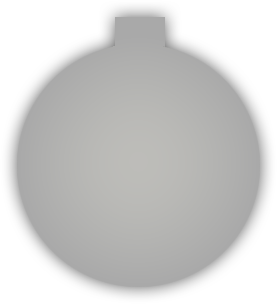
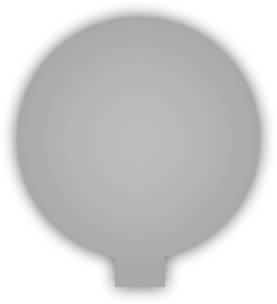
GameScreen доработан.

diff --git a/core/src/com/interdev/dstrike/screens/game/GameScreen.java b/core/src/com/interdev/dstrike/screens/game/GameScreen.java
@@ -34,42 +34,46 @@ public class GameScreen implements Screen, GestureDetector.GestureListener {
     private Image personalFieldBg;
 
     private Stage mainStage;
-
+    private Base myBase, enemyBase;
 
     @Override
     public void show() {
         Gdx.input.setInputProcessor(new GestureDetector(this));
         initTextures();
-
         multipleVirtualViewportBuilder = new MultipleVirtualViewportBuilder(640, 1136, 720, 1280);
         virtualViewport = multipleVirtualViewportBuilder.getVirtualViewport(Gdx.graphics.getWidth(), Gdx.graphics.getHeight());
         camera = new OrthographicCameraWithVirtualViewport(virtualViewport);
         virutalWidth = (int) virtualViewport.getVirtualWidth();
         virutalHeight = (int) virtualViewport.getVirtualHeight();
-
         totalFieldWidth = battlefieldBgTexture.getWidth();
         totalFieldHeight = battlefieldBgTexture.getHeight() + personalFieldBgTexture.getWidth();
-
-        zoom = (float)totalFieldWidth / virutalWidth;
+        zoom = (float) totalFieldWidth / virutalWidth;
 
         Log.info("virutalWidth " + virutalWidth + "  virutalHeight " + virutalHeight);
         Log.info("totalFieldWidth " + totalFieldWidth + "  totalFieldHeight " + totalFieldHeight);
-
         camera.position.set(totalFieldWidth / 2, totalFieldHeight / 2, 10f);
         camera.update(true);
-
-
-        personalFieldBg = new Image(personalFieldBgTexture);
-        personalFieldBg.setPosition(0, 0);
-        battlefieldBg = new Image(battlefieldBgTexture);
-        battlefieldBg.setPosition(personalFieldBg.getX() + 0, personalFieldBg.getY() + personalFieldBg.getHeight());
-
 
         mainStage = new Stage();
         mainStage.getViewport().setCamera(camera);
 
+
+        personalFieldBg = new Image(personalFieldBgTexture);
+        personalFieldBg.setPosition(0, 0);
         mainStage.addActor(personalFieldBg);
+
+        battlefieldBg = new Image(battlefieldBgTexture);
+        battlefieldBg.setPosition(personalFieldBg.getX() + 0, personalFieldBg.getY() + personalFieldBg.getHeight());
         mainStage.addActor(battlefieldBg);
+
+        myBase = new Base();
+        myBase.setPosition(battlefieldBg.getWidth() / 2, battlefieldBg.getY() + battlefieldBg.getHeight() * 0.06f);
+        myBase.setRotation(180);
+        mainStage.addActor(myBase);
+
+        enemyBase = new Base();
+        enemyBase.setPosition(battlefieldBg.getWidth() / 2, battlefieldBg.getY() + battlefieldBg.getHeight() * 0.94f);
+        mainStage.addActor(enemyBase);
 
     }
 

diff --git a/core/src/com/interdev/dstrike/screens/game/Base.java b/core/src/com/interdev/dstrike/screens/game/Base.java
@@ -1,0 +1,38 @@
+package com.interdev.dstrike.screens.game;
+
+
+import com.badlogic.gdx.Gdx;
+import com.badlogic.gdx.graphics.Texture;
+import com.badlogic.gdx.graphics.g2d.Batch;
+import com.badlogic.gdx.graphics.g2d.TextureRegion;
+import com.badlogic.gdx.scenes.scene2d.Actor;
+
+public class Base extends Actor {
+
+    public int lives = Values.BASE_START_LIVES;
+    public int targetID = 0;
+
+    private final int damage = Values.BASE_DAMAGE;
+    private TextureRegion textureRegion;
+
+
+    public Base() {
+        textureRegion = new TextureRegion(new Texture(Gdx.files.internal("base.png")));
+        textureRegion.getTexture().setFilter(Texture.TextureFilter.Linear, Texture.TextureFilter.Linear);
+        setScale(0.5f);
+        setWidth(textureRegion.getRegionWidth());
+        setHeight(textureRegion.getRegionHeight());
+        setOrigin(getWidth()/2, getHeight()/2);
+
+    }
+
+    @Override
+    public void act(float deltaTime) {
+        super.act(deltaTime);
+    }
+
+    @Override
+    public void draw(Batch batch, float alpha) {
+        batch.draw(textureRegion, getX() - getWidth()/2, getY() - getHeight()/2, getOriginX(), getOriginY(), getWidth(), getHeight(), getScaleX(), getScaleY(), getRotation());
+    }
+}

diff --git a/core/src/com/interdev/dstrike/screens/game/Values.java b/core/src/com/interdev/dstrike/screens/game/Values.java
@@ -1,0 +1,8 @@
+package com.interdev.dstrike.screens.game;
+
+public final class Values {
+    public static final int BASE_START_LIVES = 5000;
+    public static final int BASE_DAMAGE = 20;
+
+
+}
